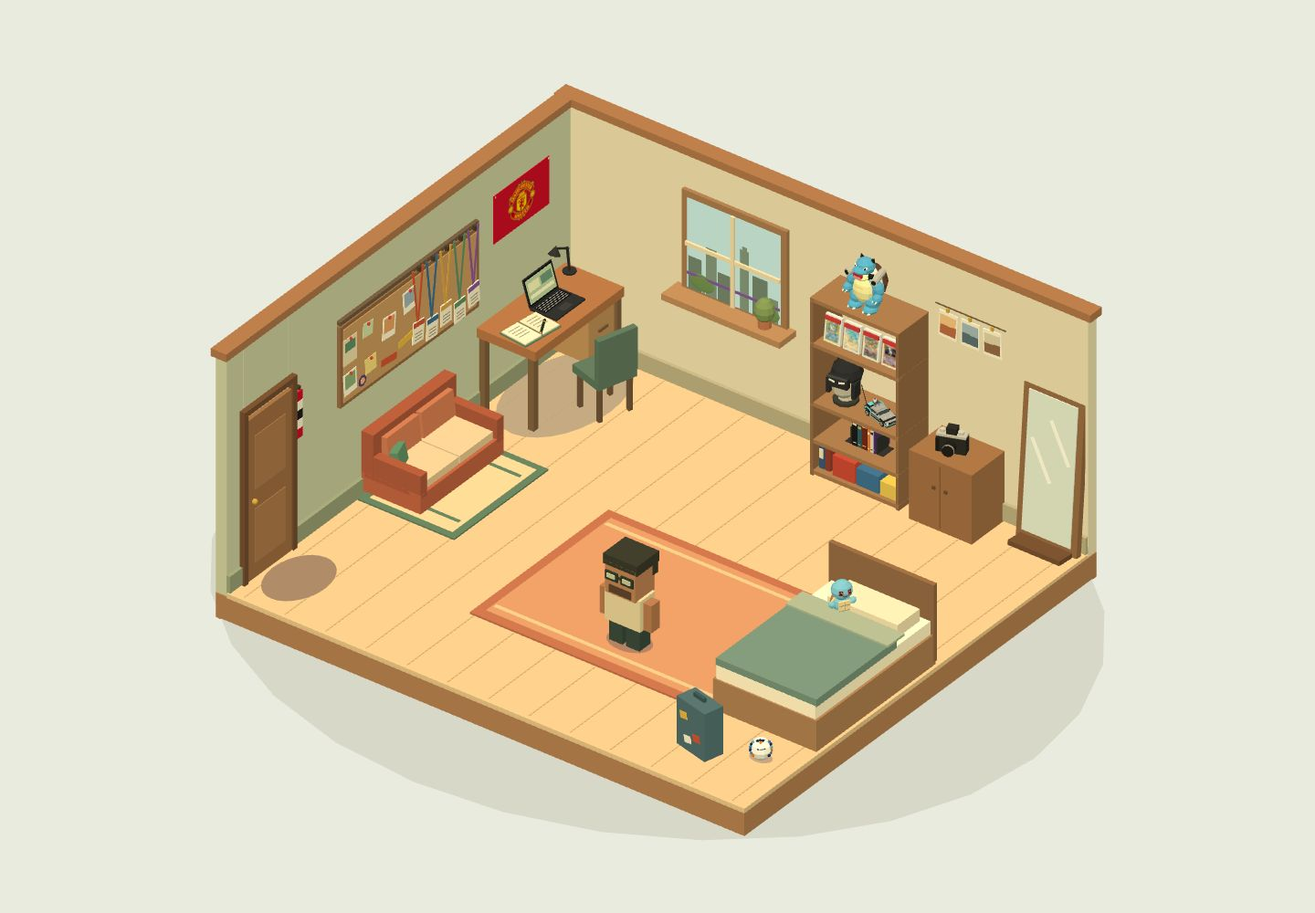
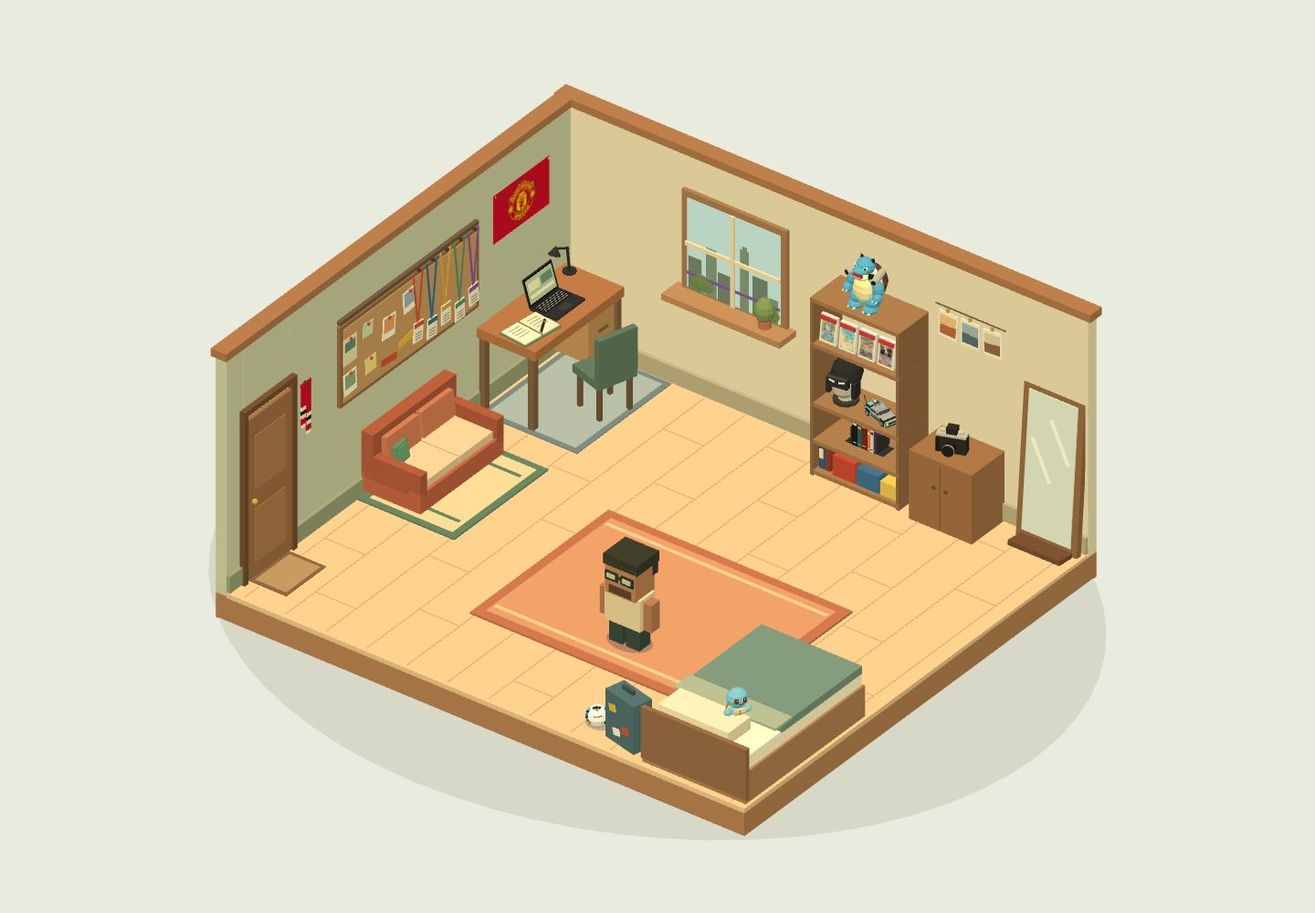
V3: visual review fixes; the bed in the front-right corner
- A rectangular rug under the desk and a coir doormat instead of the two
  ovals; a proper bar scarf by the door; a shorter DeLorean antenna; a
  smooth ground shadow; an upright sofa cushion; tidier lanyards; all four
  cards clear of the shelf's side panel; no stray badge on the board;
  staggered plank ends on the floor.
- The bed stands in the front-right corner with a low headboard against
  the front; the suitcase and ball sit beside its head, where the bed
  doesn't hide them.

diff --git a/src/lib/world/build.ts b/src/lib/world/build.ts
@@ -36,7 +36,7 @@ function createBases(): Record<Shape, BufferGeometry> {
 		box: new BoxGeometry(1, 1, 1),
 		cylinder: new CylinderGeometry(1, 1, 1, 10),
 		sphere: new SphereGeometry(1, 10, 6),
-		disc: new CircleGeometry(1, 28),
+		disc: new CircleGeometry(1, 64),
 		cone: new ConeGeometry(1, 1, 8),
 		plane: new PlaneGeometry(1, 1)
 	};
@@ -312,9 +312,9 @@ export function legoDelorean(b: Batch) {
 			b.cylinder(black, [x, 0.03, side * 0.07], 0.03, 0.026, [Math.PI / 2, 0, 0]);
 			b.cylinder('#8d9295', [x, 0.03, side * 0.0835], 0.02, 0.002, [Math.PI / 2, 0, 0]);
 		}
-	// The antenna, leaning back, with a ball at its tip.
-	b.cylinder(black, [-0.2, 0.165, 0.05], 0.003, 0.18, [0, 0, 0.45]);
-	b.add('sphere', black, [-0.239, 0.246, 0.05], [0.006, 0.006, 0.006]);
+	// A short antenna, leaning back, with a ball at its tip.
+	b.cylinder(black, [-0.178, 0.12, 0.05], 0.003, 0.08, [0, 0, 0.45]);
+	b.add('sphere', black, [-0.196, 0.156, 0.05], [0.006, 0.006, 0.006]);
 }
 
 // The Manchester United flag pinned to the wall (FLAG in layout.ts), in a frame
@@ -389,7 +389,10 @@ export function twoSeatSofa(b: Batch) {
 	}
 	for (const x of [-0.66, 0.66])
 		for (const z of [-0.32, 0.32]) b.box('#5d4a3a', [x, 0.04, z], [0.06, 0.08, 0.06]);
-	b.box('#5f8f73', [-0.5, 0.52, -0.08], [0.24, 0.22, 0.1], [-0.2, 0.3, 0.1]);
+	b.group([-0.44, 0.53, -0.1], [-0.18, 0.15, 0], () => {
+		b.box('#5f8f73', [0, 0, 0], [0.24, 0.22, 0.07]);
+		b.box('#6d9c80', [0, 0, 0.01], [0.2, 0.18, 0.07]);
+	});
 }
 
 export function buildShell(lit: Batch, unlit: Batch) {
@@ -397,6 +400,12 @@ export function buildShell(lit: Batch, unlit: Batch) {
 	lit.box('#ad805b', [-0.075, -0.2, 0.025], [7.15, 0.32, 6.35]);
 	lit.box('#dfc49a', [0, -0.025, 0.1], [7, 0.06, 6.2]);
 	for (let x = -3.3; x < 3.4; x += 0.55) lit.box('#cfb186', [x, 0.009, 0.1], [0.015, 0.005, 6.1]);
+	// Plank ends, staggered from board to board, about every 2.2.
+	for (let i = 0; i < 12; i++) {
+		const x = -3.025 + i * 0.55;
+		for (let z = -2.7 + ((i * 0.9) % 2.2); z < 3.1; z += 2.2)
+			lit.box('#cfb186', [x, 0.009, z], [0.535, 0.005, 0.015]);
+	}
 	lit.box('#e4ddc4', [-0.075, 1.52, -3.075], [7.15, 3.1, 0.15]);
 	// Left wall in three pieces around the doorway (z 2.1 to 2.9, 2.1 high: the door slab).
 	lit.box('#c5cdb2', [-3.575, 1.52, -0.45], [0.15, 3.1, 5.1]);
@@ -442,12 +451,13 @@ export function zephyrusG15(b: Batch) {
 // The desk in the back-left corner (DESK in layout.ts), drawn in its own frame:
 // the laptop in the middle, the lamp at the back end, the open notebook at the
 // front end, drawers underneath. The chair stands in the room's frame.
-export function buildDesk(lit: Batch, unlit: Batch) {
+export function buildDesk(lit: Batch) {
 	const { length, depth, height } = DESK;
-	unlit.group([DESK.x, 0, DESK.z], DESK.angle, () =>
-		unlit.decal('#c5aa82', 0, 0.2, length * 0.6, depth * 0.75)
-	);
 	lit.group([DESK.x, 0, DESK.z], DESK.angle, () => {
+		// A small rug under the desk and the chair (local +z is out into the room).
+		lit.box('#6f838d', [0, 0.012, 0.34], [1.7, 0.014, 1.32]);
+		lit.box('#a3b4b8', [0, 0.021, 0.34], [1.56, 0.004, 1.18]);
+
 		lit.box('#ad744c', [0, height - 0.06, 0], [length, 0.12, depth]);
 		for (const x of [-length / 2 + 0.05, length / 2 - 0.05])
 			for (const z of [-depth / 2 + 0.07, depth / 2 - 0.07])
@@ -562,14 +572,14 @@ export function buildCollection(lit: Batch, faces: Batch, cards: number) {
 			const slab = (z: number, y: number, art: string, tilt = 0) => {
 				const face = slot < cards ? slot : -1;
 				slot++;
-				lit.group([0.145, y, z], [0, 0, tilt], () => {
+				lit.group([0.17, y, z], [0, 0, tilt], () => {
 					lit.box('#dfe9ec', [0, 0.17, 0], [0.04, 0.34, 0.22]);
 					lit.box('#e8c85a', [0.021, 0.15, 0], [0.006, 0.25, 0.18]);
 					if (face < 0) lit.box(art, [0.025, 0.17, 0], [0.004, 0.12, 0.14]);
 					lit.box('#c23b3b', [0.021, 0.3, 0], [0.042, 0.045, 0.2]);
 				});
 				if (face >= 0)
-					faces.group([0.145, y, z], [0, 0, tilt], () =>
+					faces.group([0.17, y, z], [0, 0, tilt], () =>
 						faces.picture(
 							[0.0245, 0.15, 0],
 							0.18,
@@ -580,7 +590,7 @@ export function buildCollection(lit: Batch, faces: Batch, cards: number) {
 					);
 			};
 			// Row 1: the favourite cards side by side, left to right.
-			for (const z of [0.39, 0.13, -0.13, -0.39]) slab(z, row(3), '#9fb8d4', 0.12);
+			for (const z of [0.43, 0.17, -0.09, -0.35]) slab(z, row(3), '#9fb8d4', 0.12);
 
 			// Row 2: the Batman cowl (sized to fit a head) and the LEGO DeLorean.
 			const { cowl, delorean } = SHELF;
@@ -625,16 +635,19 @@ export function buildCollection(lit: Batch, faces: Batch, cards: number) {
 }
 
 export function buildBedroom(lit: Batch) {
-	// The bed along the right edge of the room (BED in layout.ts).
-	const x = BED.x;
-	lit.box('#8f6a4c', [x, 0.6, -0.23], [1.42, 1, 0.06]);
-	lit.box('#a9805c', [x, 0.25, 0.825], [1.4, 0.4, 2.15]);
-	lit.box('#faf2da', [x, 0.53, 0.84], [1.34, 0.18, 2.08]);
-	lit.box('#749287', [x, 0.66, 1.15], [1.36, 0.1, 1.45]);
-	lit.box('#a7b6a1', [x, 0.72, 0.45], [1.38, 0.03, 0.3]);
-	lit.box('#f0e3c7', [x + 0.1, 0.7, 0.07], [0.95, 0.16, 0.4]);
-	// Squirtle plush by the pillow, facing the room.
-	lit.group([x - 0.18, 0.62, 0.28], Math.PI / 3, () => squirtle(lit), 0.72);
+	// The bed in the front-right corner (BED in layout.ts), in its own frame: -z is
+	// the headboard end. The headboard is kept low, so the pillow and the plush show
+	// over it from the camera.
+	lit.group([BED.x, 0, BED.z], BED.angle, () => {
+		lit.box('#8f6a4c', [0, 0.43, -1.055], [1.42, 0.66, 0.06]);
+		lit.box('#a9805c', [0, 0.25, 0], [1.4, 0.4, BED.length]);
+		lit.box('#faf2da', [0, 0.53, 0.015], [1.34, 0.18, 2.08]);
+		lit.box('#749287', [0, 0.66, 0.325], [1.36, 0.1, 1.45]);
+		lit.box('#a7b6a1', [0, 0.72, -0.375], [1.38, 0.03, 0.3]);
+		lit.box('#f0e3c7', [0.1, 0.7, -0.755], [0.95, 0.16, 0.4]);
+		// Squirtle plush by the pillow, facing the room and the camera.
+		lit.group([-0.18, 0.62, -0.545], Math.PI / 3 - BED.angle, () => squirtle(lit), 0.72);
+	});
 }
 
 // Character parts: body is static relative to the character; legs swing.
@@ -732,8 +745,8 @@ export function buildLanyards(lit: Batch) {
 				const x = -1.15 + i * 0.25;
 				const drop = [0, 0.08, 0.03, 0.12, 0.05][i];
 				const badgeY = 1.78 - drop;
-				const length = 2.6 - badgeY - 0.1;
-				lit.box('#4a3d30', [x, 2.6, -2.94], [0.03, 0.06, 0.04]);
+				const length = 2.57 - badgeY - 0.1;
+				lit.box('#4a3d30', [x, 2.585, -2.94], [0.03, 0.03, 0.04]);
 				for (const side of [-1, 1])
 					lit.box(
 						strap,
@@ -742,10 +755,10 @@ export function buildLanyards(lit: Batch) {
 						[0, 0, -side * 0.12]
 					);
 				lit.group([x, badgeY, -2.955], [0, 0, (i - 2) * 0.04], () => {
-					lit.box('#f6f1e4', [0, 0, 0], [0.2, 0.27, 0.012]);
-					lit.box(strap, [0, 0.1, 0.008], [0.2, 0.06, 0.004]);
-					for (const y of [-0.01, -0.05, -0.09])
-						lit.box('#9a9280', [0, y, 0.008], [0.13, 0.012, 0.004]);
+					lit.box('#f6f1e4', [0, 0, 0], [0.17, 0.25, 0.012]);
+					lit.box(strap, [0, 0.09, 0.008], [0.17, 0.055, 0.004]);
+					for (const y of [-0.015, -0.05, -0.085])
+						lit.box('#9a9280', [0, y, 0.008], [0.11, 0.012, 0.004]);
 				});
 			});
 		})
@@ -795,7 +808,7 @@ function pinned(lit: Batch) {
 		});
 		pin((y as number) + 0.12, z as number);
 	});
-	// Tickets, notes, a small poster, and a badge.
+	// Tickets, notes, and a small poster.
 	lit.box('#e0b84a', [x, 1.62, 0.4], [0.006, 0.09, 0.3], [0.15, 0, 0]);
 	lit.box('#c9573c', [x, 1.52, 0.72], [0.006, 0.09, 0.28], [-0.1, 0, 0]);
 	lit.box('#f2dc8c', [x, 1.64, 1.05], [0.006, 0.2, 0.2], [0.05, 0, 0]);
@@ -805,11 +818,9 @@ function pinned(lit: Batch) {
 	lit.box('#e8dcc0', [x, 2.02, 1.42], [0.006, 0.34, 0.24]);
 	lit.box('#5f8f73', [x + 0.003, 2.08, 1.42], [0.004, 0.12, 0.18]);
 	pin(2.17, 1.42);
-	lit.cylinder('#5a3f8a', [x, 1.5, 1.2], 0.07, 0.008, [0, 0, Math.PI / 2]);
-	lit.cylinder('#f0b77c', [x + 0.005, 1.5, 1.2], 0.04, 0.006, [0, 0, Math.PI / 2]);
 }
 
-export function buildDoorFrame(lit: Batch, unlit: Batch) {
+export function buildDoorFrame(lit: Batch) {
 	for (const z of [2.06, 2.94]) lit.box('#6f4f37', [-3.46, 1.1, z], [0.07, 2.2, 0.07]);
 	lit.box('#6f4f37', [-3.46, 2.22, 2.5], [0.07, 0.07, 0.95]);
 	lit.box('#8f6a4c', [-3.575, -0.01, 2.5], [0.15, 0.03, 0.8]);
@@ -828,16 +839,31 @@ export function buildDoorFrame(lit: Batch, unlit: Batch) {
 	lit.box('#c9bd9c', [-4.245, 0.08, 1.6], [0.012, 0.16, 1.4]);
 	lit.box('#6f4f37', [-4.24, 1.02, 1.5], [0.02, 0.32, 0.26]);
 	lit.box('#a9c2b0', [-4.228, 1.02, 1.5], [0.006, 0.24, 0.18]);
-	unlit.decal('#b08d68', -3.05, 2.5, 0.35, 0.5, 0.013);
-	// A Manchester United scarf on a hook beside the door.
-	lit.box('#4a3d30', [-3.46, 2.05, 1.97], [0.05, 0.04, 0.04]);
-	const bars = ['#c8102e', '#f4f1ea', '#1f1f1f', '#f4f1ea', '#c8102e'];
-	bars.forEach((color, i) => lit.box(color, [-3.44, 1.95 - i * 0.12, 1.97], [0.02, 0.12, 0.09]));
+	// A coir doormat inside the door, with a darker border.
+	lit.box('#7d6145', [-3.2, 0.008, 2.5], [0.5, 0.012, 0.72]);
+	lit.box('#b0906a', [-3.2, 0.015, 2.5], [0.42, 0.004, 0.62]);
+	// A Manchester United bar scarf over a hook beside the door: two tails, red with
+	// white, black, and white bars near the ends, and a white fringe.
+	lit.box('#4a3d30', [-3.475, 2.01, 1.8], [0.05, 0.035, 0.035]);
+	lit.box('#c8102e', [-3.48, 2.0, 1.8], [0.016, 0.05, 0.18]);
+	for (const [z, length] of [
+		[1.755, 0.62],
+		[1.845, 0.5]
+	]) {
+		const bottom = 2.0 - length;
+		lit.box('#c8102e', [-3.48, 2.0 - length / 2, z], [0.015, length, 0.08]);
+		['#f4f1ea', '#1f1f1f', '#f4f1ea'].forEach((color, i) =>
+			lit.box(color, [-3.48, bottom + 0.2 - i * 0.05, z], [0.017, 0.05, 0.08])
+		);
+		for (const dz of [-0.025, 0, 0.025])
+			lit.box('#f4f1ea', [-3.48, bottom - 0.025, z + dz], [0.008, 0.05, 0.012]);
+	}
 }
 
 // Door slab in hinge-local coordinates: the hinge is the origin, the slab extends along +z.
 export function buildDoorSlab(b: Batch) {
-	b.box('#9a6f4b', [0, 1.05, 0.4], [0.05, 2.1, 0.8]);
+	// A little clearance under the slab, so it swings over the doormat.
+	b.box('#9a6f4b', [0, 1.06, 0.4], [0.05, 2.08, 0.8]);
 	for (const y of [0.55, 1.5]) b.box('#a97c56', [0.028, y, 0.4], [0.01, 0.7, 0.55]);
 	b.add('sphere', '#c9a24a', [0.05, 1.02, 0.7], [0.035, 0.035, 0.035]);
 }
@@ -851,7 +877,7 @@ export function buildDecor(lit: Batch, unlit: Batch, flag: Batch) {
 	lit.box('#e2cfa6', [-2.8, 0.033, sofa.z], [1.12, 0.004, 1.52]);
 	for (const dz of [-0.55, 0.55]) lit.box('#5f7f6a', [-2.8, 0.036, sofa.z + dz], [1, 0.003, 0.05]);
 	lit.group([sofa.x, 0, sofa.z], sofa.angle, () => twoSeatSofa(lit));
-	// At the foot of the bed: the suitcase with travel stickers, and the football,
+	// Beside the bed: the suitcase with travel stickers, and the football,
 	// a white Nike Premier League ball with pixelated navy, blue, and orange bands
 	// and a navy swoosh.
 	const suitcase = FOOTPRINTS.suitcase;

diff --git a/src/lib/world/layout.ts b/src/lib/world/layout.ts
@@ -110,8 +110,10 @@ export const MIRROR = {
 	glass: { front: 0.055, y: 0.99, width: 0.66, height: 1.76 }
 };
 
-// The bed runs along the right edge of the room, headboard at the back.
-export const BED = { x: 2.8 };
+// The bed in the front-right corner: along the right edge, its headboard against
+// the front (both walls are cut away for the camera). Drawn in its own frame
+// (build.ts), where -z is the headboard end; `length` is the frame's.
+export const BED = { x: 2.8, z: 2.1, angle: Math.PI, length: 2.15 };
 
 export const FOOTPRINTS = {
 	desk: { x: DESK.x, z: DESK.z, halfX: DESK.length / 2, halfZ: DESK.depth / 2, angle: DESK.angle },
@@ -119,10 +121,12 @@ export const FOOTPRINTS = {
 	cabinet: { x: CABINET.x, z: CABINET.z, halfX: 0.45, halfZ: 0.3, angle: CABINET.angle },
 	shelf: { x: SHELF.x, z: SHELF.z, halfX: 0.275, halfZ: 0.6, angle: SHELF.angle },
 	mirror: edges(2.64, 3.46, -3, -2.62),
-	bed: edges(BED.x - 0.7, BED.x + 0.7, -0.25, 1.9),
-	// At the foot of the bed: the suitcase, turned a little towards the room, and the ball.
-	suitcase: { x: 2.45, z: 2.6, halfX: 0.25, halfZ: 0.13, angle: -0.25 },
-	football: { x: 3.05, z: 2.3, halfX: 0.13, halfZ: 0.13, angle: 0 },
+	bed: edges(BED.x - 0.7, BED.x + 0.7, BED.z - BED.length / 2, BED.z + BED.length / 2),
+	// Beside the head of the bed, near the front edge: the suitcase, turned a little
+	// towards the room, and the ball. Anywhere else near the bed, the bed hides them
+	// from the camera.
+	suitcase: { x: 1.75, z: 2.95, halfX: 0.25, halfZ: 0.13, angle: -0.25 },
+	football: { x: 1.25, z: 2.85, halfX: 0.13, halfZ: 0.13, angle: 0 },
 	// A two-seat sofa against the left wall under the board, on a small rug, with
 	// room for one person between it and the desk.
 	sofa: { x: -3.08, z: 0.05, halfX: 0.75, halfZ: 0.4, angle: Math.PI / 2 }
@@ -282,18 +286,20 @@ export interface CuriosityLayout {
 
 // Environmental details: a one-line note, not a navigation destination.
 export const CURIOSITIES: CuriosityLayout[] = [
-	{ id: 'plush', hit: { center: [BED.x - 0.08, 0.85, 0.15], size: [0.65, 0.6, 0.6] } },
+	// Just the plush, by the pillow, so clicks on the rest of the bed reach the bed.
+	{ id: 'plush', hit: { center: [BED.x + 0.18, 0.82, BED.z + 0.545], size: [0.45, 0.45, 0.45] } },
 	{
-		// Trying to sleep: the character walks to the bed's side by its foot (further
-		// up, the bed hides it from the camera), looks at the bed, then turns its back
-		// on it to face the room and the camera (world.ts has why). The plush on the
-		// bed wins clicks on itself (the nearest hit wins).
+		// Trying to sleep: the character walks to the bed's side, looks at the bed, then
+		// turns its back on it to face the room and the camera (world.ts has why). It
+		// stands a step out and back from the suitcase, so the bed, its headboard, and
+		// the suitcase hide no more than its feet.
+		// The plush on the bed wins clicks on itself (the nearest hit wins).
 		id: 'bed',
-		hit: { center: [BED.x, 0.4, 0.825], size: [1.42, 0.8, 2.15] },
-		approach: { x: 1.75, z: 1.7 },
-		facing: Math.atan2(0.25, 1),
+		hit: { center: [BED.x, 0.4, BED.z], size: [1.42, 0.8, BED.length] },
+		approach: { x: 1.6, z: 1.85 },
+		facing: Math.atan2(-0.4, 1),
 		// Between the bed and the character turned away from it.
-		focus: [2.3, 0.75, 1.3]
+		focus: [2.25, 0.75, 2.1]
 	},
 	{
 		id: 'cowl',

diff --git a/tests/browser/world.spec.ts b/tests/browser/world.spec.ts
@@ -142,7 +142,8 @@ test('trying to sleep on the bed turns the character away, and Frost’s poem po
 	const canvas = page.locator('canvas');
 	const poem = page.getByRole('dialog', { name: 'Stopping by Woods on a Snowy Evening' });
 	// Walking up beside the bed offers it; E tries to sleep.
-	const beside = await floor(page, 1.35, 1.75);
+	// A floor spot near the bed that neither the bed nor the suitcase covers on screen.
+	const beside = await floor(page, 1.25, 1.7);
 	await page.mouse.click(beside.x, beside.y);
 	await expect(page.locator('.room-hint')).toContainText('Press E to sleep');
 	await page.keyboard.press('e');
@@ -166,11 +167,16 @@ test('trying to sleep on the bed turns the character away, and Frost’s poem po
 	// Clicking the bed from across the room walks over to it first.
 	await openRoom(page);
 	await settle(page);
-	const bed = await anchor(page, 'bed');
+	// The blanket near the foot: the plush sits over the middle of the bed on screen.
+	const bed = await page.evaluate(() =>
+		(window as unknown as { __room: { project: (p: number[]) => Anchor } }).__room.project([
+			2.8, 0.7, 1.4
+		])
+	);
 	await page.mouse.click(bed.x, bed.y);
 	await expect(poem).toBeVisible();
-	await expect(canvas).toHaveAttribute('data-x', '1.750');
-	await expect(canvas).toHaveAttribute('data-z', '1.700');
+	await expect(canvas).toHaveAttribute('data-x', '1.600');
+	await expect(canvas).toHaveAttribute('data-z', '1.850');
 	await page.getByRole('button', { name: 'Back to the room' }).click();
 	await expect(canvas).toBeFocused();
 });

diff --git a/src/lib/world/scene.ts b/src/lib/world/scene.ts
@@ -140,7 +140,7 @@ export function createRoom(canvas: HTMLCanvasElement, options: Options) {
 	const lit = new Batch();
 	const unlit = new Batch();
 	buildShell(lit, unlit);
-	buildDesk(lit, unlit);
+	buildDesk(lit);
 	buildPhotography(lit);
 	const faces = new Batch();
 	buildCollection(lit, faces, shelfCards.length);
@@ -149,7 +149,7 @@ export function createRoom(canvas: HTMLCanvasElement, options: Options) {
 	buildLanyards(lit);
 	buildMirror(lit);
 	buildCorkboard(lit);
-	buildDoorFrame(lit, unlit);
+	buildDoorFrame(lit);
 	const flag = new Batch();
 	buildDecor(lit, unlit, flag);
 	scene.add(new Mesh(keep(lit.build()), litMaterial));

diff --git a/src/lib/data/world.ts b/src/lib/data/world.ts
@@ -478,7 +478,7 @@ export const world: WorldConfig = {
 		},
 		football: {
 			label: 'Football',
-			line: 'A Premier League ball at the foot of the bed, a little scuffed. It has seen some games.'
+			line: 'A Premier League ball by the bed, a little scuffed. It has seen some games.'
 		},
 		// Trying to sleep turns the character away from the bed, and the poem pops
 		// up. The poem is Robert Frost's (1923, public domain); the rest is Claude's.

diff --git a/WORKLOG.md b/WORKLOG.md
@@ -10,9 +10,9 @@
 
 ## Current state (verified 2026-10-02)
 
-- Branch: `v3-world`, based on `12cbe80`. One commit per phase: Phase 0 `f85cdaf`, Phase 1 `2e6ceee`, Phase 2 `298269e`, Phase 3 `e71d7cc`, Phase 4 `9b8afb4`, Phase 5 `4b772bd`, full-page World `1b0e26b`, focus/size/E `2db0f96` + `9797ce7`, configurable room content `b8ed4c3`, solid furniture and the open doorway `99f5277`, rename to `WORKLOG.md` `6e97548`, favourite cards, Squirtle plush, and new Blastoise `75dfc72`, cowl, DeLorean, flag, and shelf rows `39017a7`, desk/shelf swap and laptop `1418900`, bed/armchair and mirror/cabinet swaps `f3fd237`, plant removed and walls rearranged `c57e6c1`, camera cabinet right of the shelf `d63c09e`, the sofa, the combined board, seats, books, and the window move `0dcd437`, then the mirror reflection `e6209af`, the bed that turns the character away `8675336`, then the poem card, the keyboard back to the room after the menu, scrollable sheets, and the trimmed corkboard `b048990`, then the poem moved into the side sheet (this state). `main` is untouched. Each change set is pushed to `origin/v3-world`.
+- Branch: `v3-world`, based on `12cbe80`. One commit per phase: Phase 0 `f85cdaf`, Phase 1 `2e6ceee`, Phase 2 `298269e`, Phase 3 `e71d7cc`, Phase 4 `9b8afb4`, Phase 5 `4b772bd`, full-page World `1b0e26b`, focus/size/E `2db0f96` + `9797ce7`, configurable room content `b8ed4c3`, solid furniture and the open doorway `99f5277`, rename to `WORKLOG.md` `6e97548`, favourite cards, Squirtle plush, and new Blastoise `75dfc72`, cowl, DeLorean, flag, and shelf rows `39017a7`, desk/shelf swap and laptop `1418900`, bed/armchair and mirror/cabinet swaps `f3fd237`, plant removed and walls rearranged `c57e6c1`, camera cabinet right of the shelf `d63c09e`, the sofa, the combined board, seats, books, and the window move `0dcd437`, then the mirror reflection `e6209af`, the bed that turns the character away `8675336`, then the poem card, the keyboard back to the room after the menu, scrollable sheets, and the trimmed corkboard `b048990`, the poem moved into the side sheet `5cac571`, then the visual review fixes and the bed in the front-right corner (this state). `main` is untouched. Each change set is pushed to `origin/v3-world`.
 - Stack: SvelteKit 2.70, Svelte 5.57, TypeScript, Tailwind 4, **adapter-node 5.5.7** (replaced adapter-static), Three.js 0.186.1.
-- `/world` has all nine stations from the brief (desk & computer, notebook & fountain pen, Fujifilm X-T30 II, Pokémon shelf, corkboard, conference wall, mirror, window, door) and seven curiosities (Squirtle plush, Batman cowl, LEGO DeLorean, Manchester United flag, suitcase, football, and the bed, which turns the character away and opens Robert Frost's "Stopping by Woods on a Snowy Evening" in the side sheet), plus decoration (reading corner, prints, lamps, a Blastoise figure on top of the shelf, books). Left wall, back to front: the desk with the laptop and the United flag above it, the sofa on a small rug under one board (corkboard and lanyards), the door. The suitcase and football sit at the foot of the bed. Opening the desk or the board sits the character down (chair, sofa). Back wall: the window (between the desk and the shelf), the shelf (cards, cowl and DeLorean, Aditya's six books), the camera cabinet with prints above, the mirror in the corner (it reflects the character). The bed runs along the right edge. The shelf holds, top to bottom: Blastoise, the four favourite cards, the cowl and the DeLorean, books, binders and sealed boxes. `/collection` shows the cards too. The window follows Bengaluru time. `/now` exists. `/index` is SSR and never loads the scene.
+- `/world` has all nine stations from the brief (desk & computer, notebook & fountain pen, Fujifilm X-T30 II, Pokémon shelf, corkboard, conference wall, mirror, window, door) and seven curiosities (Squirtle plush, Batman cowl, LEGO DeLorean, Manchester United flag, suitcase, football, and the bed, which turns the character away and opens Robert Frost's "Stopping by Woods on a Snowy Evening" in the side sheet), plus decoration (reading corner, prints, lamps, a Blastoise figure on top of the shelf, books). Left wall, back to front: the desk with the laptop and the United flag above it, the sofa on a small rug under one board (corkboard and lanyards), the door. The suitcase and football sit beside the head of the bed. Opening the desk or the board sits the character down (chair, sofa). Back wall: the window (between the desk and the shelf), the shelf (cards, cowl and DeLorean, Aditya's six books), the camera cabinet with prints above, the mirror in the corner (it reflects the character). The bed stands in the front-right corner, along the right edge, its low headboard against the front (both walls are cut away for the camera). The shelf holds, top to bottom: Blastoise, the four favourite cards, the cowl and the DeLorean, books, binders and sealed boxes. `/collection` shows the cards too. The window follows Bengaluru time. `/now` exists. `/index` is SSR and never loads the scene.
 - `/` renders World or Index on the server from the `mode` cookie (default World). `/world` and `/index` set it.
 - World is the whole page: full-viewport room, floating header (WORLD / INDEX), and an "In the room" menu button bottom right that opens the station list, curiosities, and settings.
 - Every page is V3 now: one header (WORLD / INDEX switch everywhere, section nav on deep pages), one footer, one container width. Deep pages: `/work`, `/projects`, `/speaking`, `/writing`, `/community`, `/photography`, `/collection`, `/about`, `/contact`, `/now`; `/resume` stays a PDF redirect. All V2 components are gone.
@@ -22,7 +22,7 @@
 
 ## Open review items (not yet fixed)
 
-- Copy written by Claude, not Aditya, needs his review before launch: the four curiosity lines in `src/lib/data/world.ts` (the suitcase line names Yokohama, London, Toronto, Atlanta, inferred from talks and photos; the football line is invented flavour), and the station summaries. Also: the Squirtle plush, Batman cowl, LEGO DeLorean, and flag lines, the football line's "Premier League ball", the shelf panel's lead and its "Other favourites" lines, the combined board's summary and lanyards line, the bed's hint ("Time for a nap?", "Press E to sleep", "Tap the bed to sleep") and its line in the menu ("Not yet: miles to go before I sleep."; the poem itself is Robert Frost's, from 1923 and in the public domain) ("A few other favourites share the shelf…"), and the card details and alt text in `src/lib/data/collection.ts`, which Claude read off the card images (set names, numbers, illustrators).
+- Copy written by Claude, not Aditya, needs his review before launch: the four curiosity lines in `src/lib/data/world.ts` (the suitcase line names Yokohama, London, Toronto, Atlanta, inferred from talks and photos; the football line is invented flavour), and the station summaries. Also: the Squirtle plush, Batman cowl, LEGO DeLorean, and flag lines, the football line's "Premier League ball", the shelf panel's lead and its "Other favourites" lines, the combined board's summary and lanyards line, the football line's "by the bed", the bed's hint ("Time for a nap?", "Press E to sleep", "Tap the bed to sleep") and its line in the menu ("Not yet: miles to go before I sleep."; the poem itself is Robert Frost's, from 1923 and in the public domain) ("A few other favourites share the shelf…"), and the card details and alt text in `src/lib/data/collection.ts`, which Claude read off the card images (set names, numbers, illustrators).
 - `src/lib/data/now.ts`: "Reading" and "Thinking about" are left out because there is no source for them; Aditya should supply them. `now.updated` is a manual date and must change whenever the page changes.
 - `npm audit`: 3 low findings in the SvelteKit/cookie chain; only `--force` resolves them.
 - Google Analytics (existing V2 tag in `src/routes/+layout.svelte`) is 160 KB of third-party JavaScript on every page, more than all first-party JavaScript on Index. Keep, defer, or replace: Aditya's call.
@@ -534,4 +534,31 @@
 - `src/lib/world/layout.ts`: curiosities can have a `focus`. The bed's is between the bed and the character turned away from it.
 - Tests: the accessibility test waits on whichever dialog is open (`dialog[open]`), since both dialogs are sheets now.
 - Verified in screenshots at desktop, laptop, and phone size: the poem on the right (bottom on the phone), the bed and the character in view beside it, the two bold lines. No console errors.
+- Validation: `npm run check` 0/0, `npm test` 23/23, `npm run test:e2e` 27/27, `npm run lint` exit 0.
+
+### 2026-10-02 — Visual review fixes; the bed in the front-right corner (user requests)
+
+- User shared a capture of the room and asked for visual imperfections. Claude listed eleven. The user asked to fix all but the bed, to put the bed in the bottom-right corner, and then to make its headboard lower.
+- `src/lib/world/build.ts`:
+  - Desk: the tan oval under the desk (it read as a shadow in a room with no shadows) is now a small rectangular slate-blue rug with a border, under the desk and the chair. `buildDesk` no longer takes the unlit batch.
+  - Door:
+    - The brown oval in front of the door (it read as a stain) is now a rectangular coir doormat with a darker border. `buildDoorFrame` no longer takes the unlit batch.
+    - The door slab has a little clearance underneath, so it swings over the mat.
+  - The scarf by the door was five stacked blocks pressed against the door frame. It's now a bar scarf over a hook, further from the frame: two tails of different lengths, red with white, black, and white bars near the ends, and a white fringe.
+  - The LEGO DeLorean's antenna is shorter, so it no longer reaches the Batman cowl.
+  - Discs have 64 segments (were 28), so the room's ground shadow has a smooth edge.
+  - The sofa's throw cushion was a tilted wedge cutting into the arm. It's now an upright cushion against the back, clear of the arm, with a softer front.
+  - Lanyards: the hooks are smaller and sit within the rail, the straps end inside it, and the badges are slimmer, so they crowd less.
+  - Shelf: the four slabs sit 0.025 further forward and 0.04 to the left, so the shelf's right side panel no longer hides part of the fourth card.
+  - The corkboard's purple badge (it read as a stray ring) is gone.
+  - Floor: the planks have staggered end joints about every 2.2, so the boards read as planks rather than stripes.
+- The bed:
+  - `src/lib/world/layout.ts`: `BED` is `{ x: 2.8, z: 2.1, angle: π, length: 2.15 }`. The bed stands in the front-right corner, along the right edge, its headboard against the front. Its footprint and hit box follow `BED`.
+  - `src/lib/world/build.ts`: the bed is drawn in its own frame. The headboard is low (0.1 to 0.76, just above the mattress), so the pillow and the Squirtle show over it from the camera. The plush still faces the room and the camera.
+  - The suitcase and football sit beside the head of the bed, near the front edge: `(1.75, 2.95)` and `(1.25, 2.85)`. Anywhere else near the bed, the bed hides them from the camera; at its foot they were hidden.
+  - The football's note says "by the bed".
+  - Trying to sleep: the character stands at `(1.6, 1.85)`, a step out from the bed and back from the suitcase, so only its feet are hidden. It turns away from the bed (`facing` `atan2(-0.4, 1)`), and the camera frames `[2.25, 0.75, 2.1]`.
+  - The plush's hit box is just the plush, so clicks on the rest of the bed reach the bed.
+- Tests: the bed E2E test walks to a floor spot that neither the bed nor the suitcase covers on screen. It clicks the blanket rather than the bed's centre, where the plush sits on screen, and expects the new spot.
+- Verified in captures of the room (`og/room.jpg`) and close-ups of each fix, and in a screenshot of the bed with its poem open. Regenerated `static/room-still.jpg`, `og/room.jpg`, `static/og.png`.
 - Validation: `npm run check` 0/0, `npm test` 23/23, `npm run test:e2e` 27/27, `npm run lint` exit 0.
